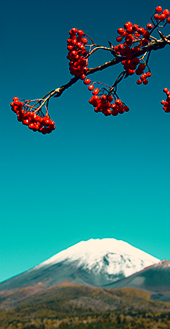
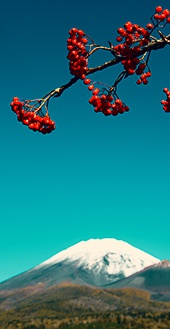
optimize jpg images; optimize html code

diff --git a/index.html b/index.html
@@ -1,101 +1,1 @@
-<!DOCTYPE html>
-<html lang="ru">
-    <head>
-        <meta charset="utf-8">
-        <title>LXII форум – Профессиональных чтецов инструкций на освежителях воздуха</title>
-        <meta name="viewport" content="width=device-width, initial-scale=1.0">
-        <link rel="shortcut icon" href="assets/img/favicon.ico">
-        <link rel="apple-touch-icon" href="assets/img/iphone_favicon.png"/>
-        <style type="text/css" media="screen">
-@font-face{font-family:'PT Sans';src:url('assets/fonts/pts55f_w.eot');src:local('PT Sans'),url('assets/fonts/PTS55F_W.woff') format('woff')}@font-face{font-family:'PT Sans';font-style:normal;font-weight:700;src:url('assets/fonts/pts75f_w.eot');src:local('PT Sans Bold'),url('assets/fonts/PTS75F_W.woff') format('woff')}@font-face{font-family:'PT Sans Narrow';src:url('assets/fonts/ptn57f_w.eot');src:local('PT Sans Narrow'),url('assets/fonts/PTN57F_W.woff') format('woff')}@font-face{font-family:'PT Sans Narrow';font-weight:700;src:url('assets/fonts/ptn77f_w.eot');src:local('PT Sans Narrow Bold'),url('assets/fonts/PTN77F_W.woff') format('woff')}.clearfix{*zoom:1}html{font-size:100%;-webkit-text-size-adjust:100%;-ms-text-size-adjust:100%}a:focus{outline:thin dotted #333;outline:5px auto -webkit-focus-ring-color;outline-offset:-2px}a:hover,a:active{outline:0}img{width:auto\9;height:auto;max-width:100%;vertical-align:middle;border:0;-ms-interpolation-mode:bicubic}button::-moz-focus-inner,input::-moz-focus-inner{padding:0;border:0}@media print{*{color:#000!important;text-shadow:none!important;background:transparent!important;box-shadow:none!important}a,a:visited{text-decoration:underline}a[href]:after{content:" (" attr(href)")"}.ir a:after,a[href^="javascript:"]:after,a[href^="#"]:after{content:""}tr,img{page-break-inside:avoid}img{max-width:100%!important}@page{margin:.5cm}p,h2,h3{orphans:3;widows:3}}body{margin:0;font-family:"PT Sans","Helvetica Neue",Helvetica,Arial,sans-serif;font-size:15px;line-height:20px;color:#222;padding-top:0;padding-bottom:0;background-color:#EEE;box-shadow:0 0 .7em #222;background-attachment:fixed}a{color:#2c3e50;text-decoration:none}a:hover,a:focus{color:#354b60;text-decoration:underline}[class*="span"]{float:left;min-height:1px;margin-left:20px}.container,.navbar-static-top .container,.navbar-fixed-top .container,.navbar-fixed-bottom .container{width:940px}.span9{width:700px}.span8{width:620px}.span4{width:300px}.span3{width:220px}.row-fluid{width:100%;*zoom:1}.row-fluid:before,.row-fluid:after{display:table;line-height:0;content:""}.row-fluid:after{clear:both}.row-fluid [class*="span"]{display:block;float:left;width:100%;min-height:30px;margin-left:2.127659574468085%;*margin-left:2.074468085106383%;-webkit-box-sizing:border-box;-moz-box-sizing:border-box;box-sizing:border-box}.row-fluid [class*="span"]:first-child{margin-left:0}.row-fluid .span9{width:74.46808510638297%;*width:74.41489361702126%}.row-fluid .span8{width:65.95744680851064%;*width:65.90425531914893%}.row-fluid .span4{width:31.914893617021278%;*width:31.861702127659576%}.row-fluid .span3{width:23.404255319148934%;*width:23.351063829787233%}.container{margin-right:auto;margin-left:auto;*zoom:1}.container:before,.container:after{display:table;line-height:0;content:""}.container:after{clear:both}p{margin:0 0 10px}h1{font-family:'PT Sans',sans;line-height:40px}h1,h4{margin:10px 0;color:inherit;text-rendering:optimizelegibility}h4{font-family:'PT Sans Narrow',sans;line-height:20px}ul,ol{padding:0;margin:0 0 10px 25px}li{line-height:20px}hr{margin:20px 0;border:0;border-top:1px solid #ecf0f1;border-bottom:1px solid #fff}input:-moz-placeholder,textarea:-moz-placeholder{color:#b4bcc2}input:-ms-input-placeholder,textarea:-ms-input-placeholder{color:#b4bcc2}.form-search .input-append .search-query,.form-search .input-prepend .search-query{-webkit-border-radius:0;-moz-border-radius:0;border-radius:0}.icon-white,.nav-pills>.active>a>[class^="icon-"],.nav-pills>.active>a>[class*=" icon-"],.nav-list>.active>a>[class^="icon-"],.nav-list>.active>a>[class*=" icon-"],.navbar-inverse .nav>.active>a>[class^="icon-"],.navbar-inverse .nav>.active>a>[class*=" icon-"],.dropdown-menu>li>a:hover>[class^="icon-"],.dropdown-menu>li>a:focus>[class^="icon-"],.dropdown-menu>li>a:hover>[class*=" icon-"],.dropdown-menu>li>a:focus>[class*=" icon-"],.dropdown-menu>.active>a>[class^="icon-"],.dropdown-menu>.active>a>[class*=" icon-"],.dropdown-submenu:hover>a>[class^="icon-"],.dropdown-submenu:focus>a>[class^="icon-"],.dropdown-submenu:hover>a>[class*=" icon-"],.dropdown-submenu:focus>a>[class*=" icon-"]{background-image:url("../img/glyphicons-halflings-white.png")}.well{min-height:20px;padding:19px;margin-bottom:20px;background-color:#ecf0f1;-webkit-box-shadow:inset 0 1px 1px rgba(0,0,0,.05);-moz-box-shadow:inset 0 1px 1px rgba(0,0,0,.05);box-shadow:inset 0 1px 1px rgba(0,0,0,.05)}.well,.btn{-webkit-border-radius:6px;-moz-border-radius:6px;border-radius:6px}.btn{display:inline-block;*display:inline;margin-bottom:0;*margin-left:.3em;font-size:15px;line-height:20px;text-align:center;text-shadow:0 1px 1px rgba(255,255,255,.75);vertical-align:middle;cursor:pointer;background-color:#bfc6cb;*background-color:#d0d5d9;background-image:-moz-linear-gradient(top,#b4bcc2,#d0d5d9);background-image:-webkit-gradient(linear,0 0,0 100%,from(#b4bcc2),to(#d0d5d9));background-image:-webkit-linear-gradient(top,#b4bcc2,#d0d5d9);background-image:-o-linear-gradient(top,#b4bcc2,#d0d5d9);background-image:linear-gradient(to bottom,#b4bcc2,#d0d5d9);background-repeat:repeat-x;*border:0;border-color:rgba(0,0,0,.1)rgba(0,0,0,.1)rgba(0,0,0,.25);filter:progid:DXImageTransform.Microsoft.gradient(startColorstr='#ffb4bcc2', endColorstr='#ffd0d5d9', GradientType=0);filter:progid:DXImageTransform.Microsoft.gradient(enabled=false);*zoom:1;-webkit-box-shadow:inset 0 1px 0 rgba(255,255,255,.2),0 1px 2px rgba(0,0,0,.05);-moz-box-shadow:inset 0 1px 0 rgba(255,255,255,.2),0 1px 2px rgba(0,0,0,.05);box-shadow:inset 0 1px 0 rgba(255,255,255,.2),0 1px 2px rgba(0,0,0,.05)}.btn:hover{background-color:#d0d5d9;*background-color:#c2c9cd}.btn:focus,.btn:active,.btn.active,.btn.disabled,.btn[disabled]{color:#7b8a8b;background-color:#d0d5d9;*background-color:#c2c9cd}.btn:active,.btn.active{background-color:#b4bcc2 \9}.btn:first-child{*margin-left:0}.btn:hover,.btn:focus{text-decoration:none;background-position:0 -15px;-webkit-transition:background-position .1s linear;-moz-transition:background-position .1s linear;-o-transition:background-position .1s linear;transition:background-position .1s linear}.btn:focus{outline:thin dotted #333;outline:5px auto -webkit-focus-ring-color;outline-offset:-2px}.btn.active,.btn:active{background-image:none;outline:0;-webkit-box-shadow:inset 0 2px 4px rgba(0,0,0,.15),0 1px 2px rgba(0,0,0,.05);-moz-box-shadow:inset 0 2px 4px rgba(0,0,0,.15),0 1px 2px rgba(0,0,0,.05);box-shadow:inset 0 2px 4px rgba(0,0,0,.15),0 1px 2px rgba(0,0,0,.05)}.btn-large{font-size:18.75px;-webkit-border-radius:10px;-moz-border-radius:10px;border-radius:10px}.btn-primary{color:#fff;text-shadow:0 -1px 0 rgba(0,0,0,.25);background-color:#2c2c2c;*background-color:#3c3c3c;background-image:-moz-linear-gradient(top,#222,#3c3c3c);background-image:-webkit-gradient(linear,0 0,0 100%,from(#222),to(#3c3c3c));background-image:-webkit-linear-gradient(top,#222,#3c3c3c);background-image:-o-linear-gradient(top,#222,#3c3c3c);background-image:linear-gradient(to bottom,#222,#3c3c3c);background-repeat:repeat-x;border-color:#3c3c3c #3c3c3c #151515;border-color:rgba(0,0,0,.1)rgba(0,0,0,.1)rgba(0,0,0,.25);filter:progid:DXImageTransform.Microsoft.gradient(startColorstr='#ff222222', endColorstr='#ff3c3c3c', GradientType=0);filter:progid:DXImageTransform.Microsoft.gradient(enabled=false)}.btn-primary:hover,.btn-primary:focus,.btn-primary:active,.btn-primary.active,.btn-primary.disabled,.btn-primary[disabled]{color:#fff;background-color:#3c3c3c;*background-color:#2f2f2f}.btn-primary:active,.btn-primary.active{background-color:#222 \9}button.btn::-moz-focus-inner,input[type="submit"].btn::-moz-focus-inner{padding:0;border:0}.nav{margin-bottom:20px;margin-left:0;list-style:none}.nav>li>a{display:block}.nav>li>a:hover,.nav>li>a:focus{text-decoration:none;background-color:#ecf0f1}.nav-header{display:block;padding:3px 15px;font-size:11px;font-weight:700;line-height:20px;color:#b4bcc2;text-shadow:0 1px 0 rgba(255,255,255,.5);text-transform:uppercase}.nav-list{padding-right:15px;padding-left:15px;margin-bottom:0}.nav-list>li>a,.nav-list .nav-header{margin-right:-15px;margin-left:-15px;text-shadow:0 1px 0 rgba(255,255,255,.5)}.nav-list>li>a{padding:3px 15px}.nav-list>.active>a,.nav-list>.active>a:hover,.nav-list>.active>a:focus{color:#fff;text-shadow:0 -1px 0 rgba(0,0,0,.2);background-color:#2c3e50}.nav-tabs .dropdown-toggle .caret{margin-top:8px}.navbar-inverse .navbar-search .search-query:-moz-placeholder{color:#95a5a6}.navbar-inverse .navbar-search .search-query:-ms-input-placeholder{color:#95a5a6}@-webkit-keyframes progress-bar-stripes{from{background-position:40px 0}to{background-position:0 0}}@-moz-keyframes progress-bar-stripes{from{background-position:40px 0}to{background-position:0 0}}@-ms-keyframes progress-bar-stripes{from{background-position:40px 0}to{background-position:0 0}}@-o-keyframes progress-bar-stripes{from{background-position:0 0}to{background-position:40px 0}}@keyframes progress-bar-stripes{from{background-position:40px 0}to{background-position:0 0}}.hero-unit{padding:60px;margin-bottom:30px;font-size:18px;font-weight:200;line-height:30px;background-color:#ecf0f1;-webkit-border-radius:6px;-moz-border-radius:6px}.hero-unit h1{margin-bottom:0;font-size:60px;line-height:1;letter-spacing:-1px;color:inherit}h1{font-size:48px;font-weight:900}h4{font-size:24px;font-weight:500}p{margin-bottom:1em}.nav-list>li>a,.nav-list>.active>a,.nav-list .nav-header,.btn{text-shadow:none}.btn{padding:9px 20px;color:#fff;text-decoration:none;background-image:none;border:none;-webkit-box-shadow:none;-moz-box-shadow:none;box-shadow:none;-webkit-transition:.25s;-moz-transition:.25s;transition:.25s}.btn:hover,.btn:focus{color:#fff;-webkit-transition:.25s;-moz-transition:.25s;transition:.25s}.btn:active,.btn.active{color:rgba(255,255,255,.75);-webkit-box-shadow:none;-moz-box-shadow:none;box-shadow:none}.btn-large{padding:18px 36px}textarea:-moz-placeholder,input[type="text"]:-moz-placeholder,input[type="password"]:-moz-placeholder,input[type="datetime"]:-moz-placeholder,input[type="datetime-local"]:-moz-placeholder,input[type="date"]:-moz-placeholder,input[type="month"]:-moz-placeholder,input[type="time"]:-moz-placeholder,input[type="week"]:-moz-placeholder,input[type="number"]:-moz-placeholder,input[type="email"]:-moz-placeholder,input[type="url"]:-moz-placeholder,input[type="search"]:-moz-placeholder,input[type="tel"]:-moz-placeholder,input[type="color"]:-moz-placeholder,.uneditable-input:-moz-placeholder{color:#acb6c0}textarea:-ms-input-placeholder,input[type="text"]:-ms-input-placeholder,input[type="password"]:-ms-input-placeholder,input[type="datetime"]:-ms-input-placeholder,input[type="datetime-local"]:-ms-input-placeholder,input[type="date"]:-ms-input-placeholder,input[type="month"]:-ms-input-placeholder,input[type="time"]:-ms-input-placeholder,input[type="week"]:-ms-input-placeholder,input[type="number"]:-ms-input-placeholder,input[type="email"]:-ms-input-placeholder,input[type="url"]:-ms-input-placeholder,input[type="search"]:-ms-input-placeholder,input[type="tel"]:-ms-input-placeholder,input[type="color"]:-ms-input-placeholder,.uneditable-input:-ms-input-placeholder{color:#acb6c0}.well{border:none;-webkit-box-shadow:none;-moz-box-shadow:none;box-shadow:none}@media (max-width:767px){div.subnav .nav>li:first-child>a,div.subnav .nav>li+li>a{border-color:transparent}}@media (max-width:979px){.navbar .nav-collapse .nav>li>a{color:#fff}}.sidebar-nav{padding:9px 0}.container{padding:0 .9cm;box-shadow:0 0 .7em #222}.content img{float:left;margin-right:10px;margin-bottom:10px;border-radius:5px 0 5px 0}.nav-list>li{font-family:'PT Sans Narrow',sans;font-size:19px;line-height:30px}.nav-list>li.nav-header{font-weight:100}.span3.banner{margin-left:0;padding-top:18px;width:220px}.hero-unit{background-position:0% 46.001%;border-radius:0 0 10px 10px;color:#2c3e50}
-        </style>
-</head>
[1 lines of base64/hex data omitted]
-<div class="container" style="background: white;">
-<div class="row-fluid">
-    <div class="hero-unit" style="background-image: url(assets/img/photo_head.jpg);">
-        <h1>LXII форум</h1>
-        <p>Профессиональных чтецов инструкций на освежителях воздуха</p>
-        <p><a href="#reg" class="btn btn-primary btn-large">Зарегистрироваться!</a></p>
-    </div>
-</div>
-<div class="row-fluid">
-    <div class="span3">
-        <div class="well sidebar-nav">
-            <ul class="nav nav-list">
-                <li class="nav-header">Меню</li>
-                <li id="main" class="active">
[1 lines of base64/hex data omitted]
-                </li>
-                <li id="news">
[1 lines of base64/hex data omitted]
-                </li>
-                <li id="agenda">
[1 lines of base64/hex data omitted]
-                </li>
-                <li id="sponsors">
[1 lines of base64/hex data omitted]
-                </li>
-                <li id="pay">
[1 lines of base64/hex data omitted]
-                </li>
-                <li id="contacts">
[1 lines of base64/hex data omitted]
-                </li>
-            </ul>
-        </div>
-        <div class="span3 banner">
-            <a target="_blank" href="http://ya.ru"><img src="assets/img/banner.png"></a>
-        </div>
-    </div>
-    <div class="span9 content">
-        <div class="row-fluid">
-            <div class="span8">
-                <h4>Звезда из Японии</h4>
-                <img src="assets/img/photo_01.jpg" alt="Фотография Японии"/>
-                <p>На форум приедет знаменитый японский чтец Микаро Яцумомито. Автор классического прочтения инструкции к японскому варианту освежителя Power Glisse 5000 Extreme Pack 250мл в жестяном флаконе с тремя дозаторами.</p>
-                <p>На открытии второго дня он прочтет инструкцию к новейшему освежителю для производственных помещений Simply Spray Here 2 Times Ultimate Edition. Ассистировать маэстро будет победитель молодежных чтений 2012 года в Санкт-Петербруге Игнат Зулусович Шмярк.</p>
-            </div>
-            <div class="span4">
-                <h4>Круглый стол</h4>
-                <img src="assets/img/photo_02.jpg" alt="Цены"/>
-                <p>В рамках съезда пройдет круглый стол «Повышение цен на освежители в странах Азии, и как оно отразится на отрасли в мировом масштабе».</p>
-                <p><a class="btn" href="#news2">Далее &raquo;</a></p>
-            </div>
-        </div>
-        <div class="row-fluid">
-            <div class="span4">
-                <h4>Будущее российских освежителей</h4>
-                <p>На открытии форума выступит академик Мирослав Захарович Сунтакаров с докладом гильдии чтецов стран Cодружества наземных государств «Инструкции к российским освежителям: Вчера, Сегодня, Завтра». Доклад будет освещать позицию государств содружества на изменения в российском законодательстве в части, касающейся написания инструкций к освежителям. Будут рассмотрены мировые практики, и проведен анализ рынка российских освежителей на мировой арене и внутреннем рынке страны.</p>
-                <p><a class="btn" href="#news3">Далее &raquo;</a></p>
-            </div>
-            <div class="span4">
-                <h4>Показательные чтения</h4>
-                <p>Вечером первого дня в конференц-зале &laquo;Фиалка&raquo; пройдут показательные чтения. Читать будут инструкции к освежителям компании &laquo;P&amp;Jo&raquo; Времена Года. Выставочные образцы инструкций будут доступны зарегистрированным участникам с 27 августа.</p>
-                <p>Для участия требуется предварительная регистрация по email.</p>
-                <p><a class="btn" href="#news4">Далее &raquo;</a></p>
-            </div>
-            <div class="span4">
-                <h4>Фуршет</h4>
-                <p>Заключительный фуршет форума состоится в ресторане &laquo;Квадрига&raquo;. На фуршет приглашаются все участники форума и их сопровождающие. Просьба сообщить о количестве ваших сопровождающих организаторам форума.</p>
-                <p>Администрация ресторана просила не применять сильных освежителей во время фуршета и уважительно относиться к персоналу.</p>
-            </div>
-        </div>
-    </div>
-</div>
-<hr>
-<footer>
-<p>&copy; 1956–2013 Всемирная организация профсоюзов чтецов инструкций на освежителях воздуха</p>
-<p>Использованы материалы
-<a href="http://twitter.github.com/bootstrap/">Bootstrap</a>,
-<a href="http://bootswatch.com/flatly/">bootswatch/flatly</a>,
-<a href="http://www.webalys.com/minicons">Minicons Free Vector Icons Pack</a>,
-<a href="http://www.paratype.com/public/">PT Sans fonts</a>,
-photos by <a href="http://www.flickr.com/photos/booleansplit/6924193463/">booleansplit</a>,
-<a href="http://www.flickr.com/photos/skyseeker/1945511352/">skyseeker</a>,
-<a href="http://www.flickr.com/photos/essgee/35280339/">essgee</a>
-</p>
-</footer>
-</div>
-</body>
-</html>
[1 lines of base64/hex data omitted]
